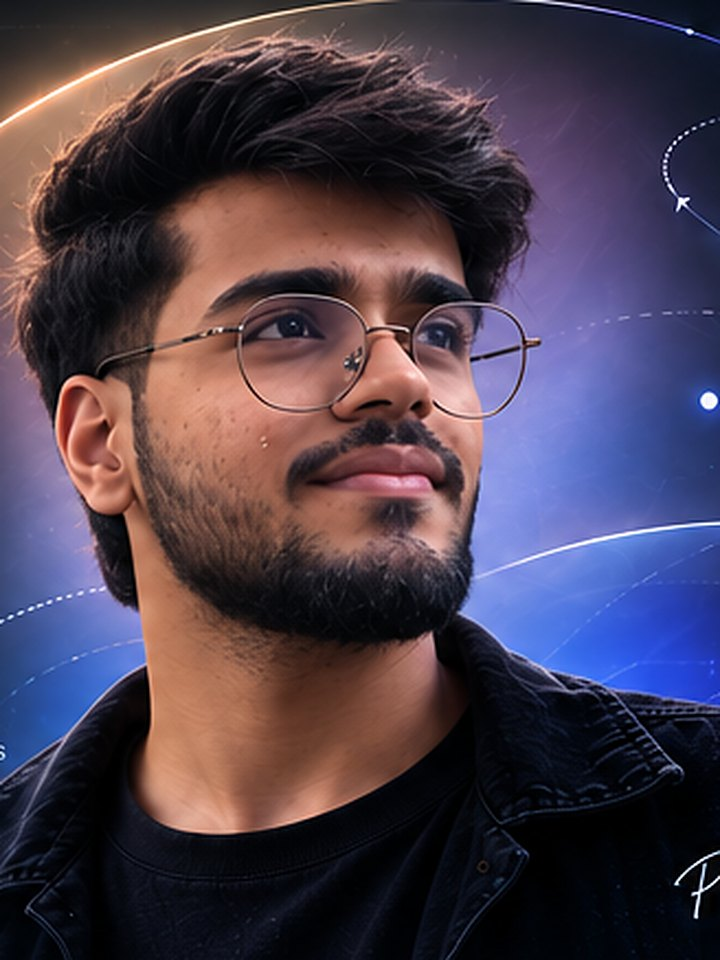
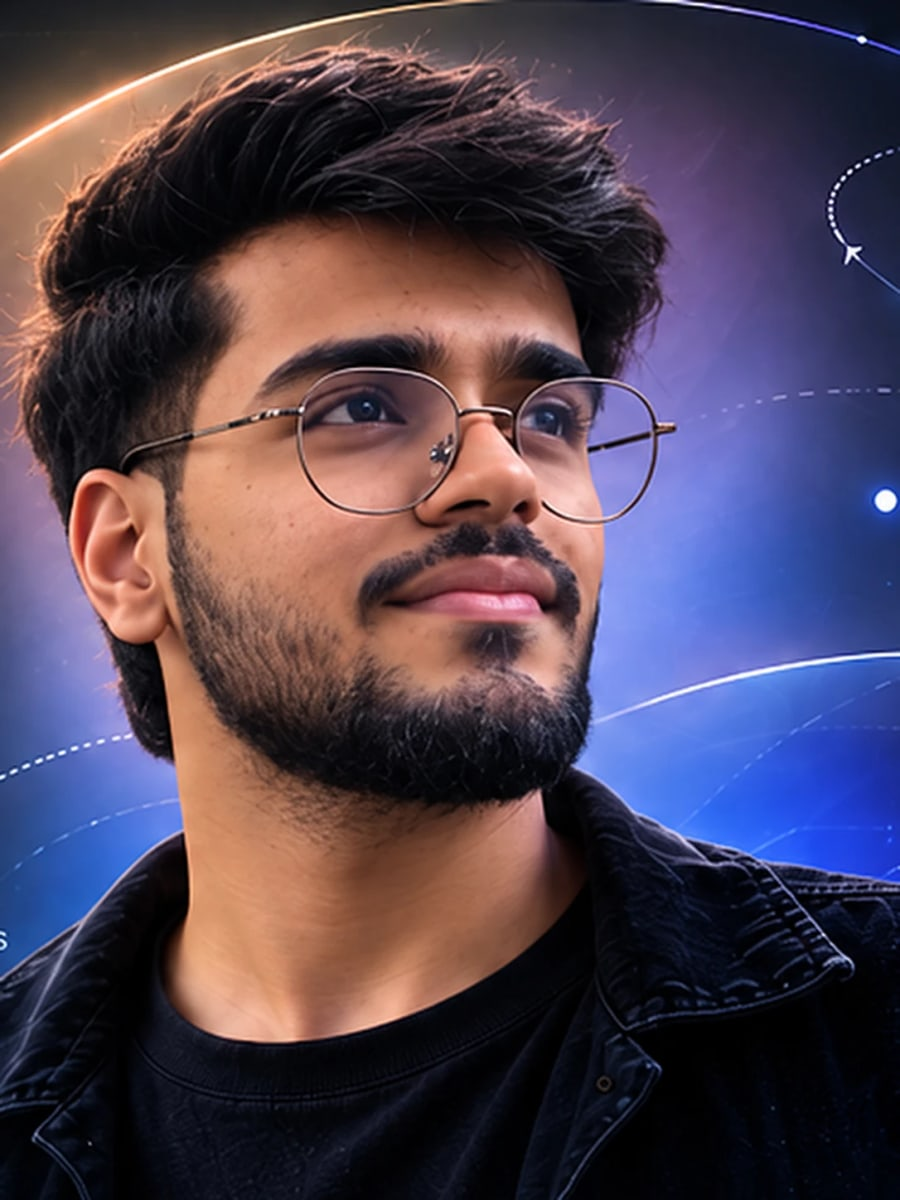
feat(home): new portrait photo (900x1200)

diff --git a/app/layout.tsx b/app/layout.tsx
@@ -38,7 +38,7 @@ export const metadata: Metadata = {
     title: "Kunal Farma — Product Specialist",
     description:
       "4+ years in product and e-commerce: finding the problem, prototyping the fix with AI, shipping it, and measuring it.",
-    images: [{ url: "/kunal-farma.jpg", width: 720, height: 960, alt: "Portrait of Kunal Farma" }],
+    images: [{ url: "/kunal-farma.jpg", width: 900, height: 1200, alt: "Portrait of Kunal Farma" }],
   },
   twitter: { card: "summary" },
 };

diff --git a/README.md b/README.md
@@ -29,7 +29,7 @@ Performance notes: the aurora blobs only drift on screens 1024px and wider, the 
 Files in `public/`:
 
 - `Kunal_Farma_Resume.pdf` — the resume every download button serves. Replace this file to update the resume.
-- `kunal-farma.jpg` — the portrait (hero) and the link-preview image (`og:image`).
+- `kunal-farma.jpg` — the portrait (hero) and the link-preview image (`og:image`), 900×1200 JPG.
 
 ## Editing the content
 
